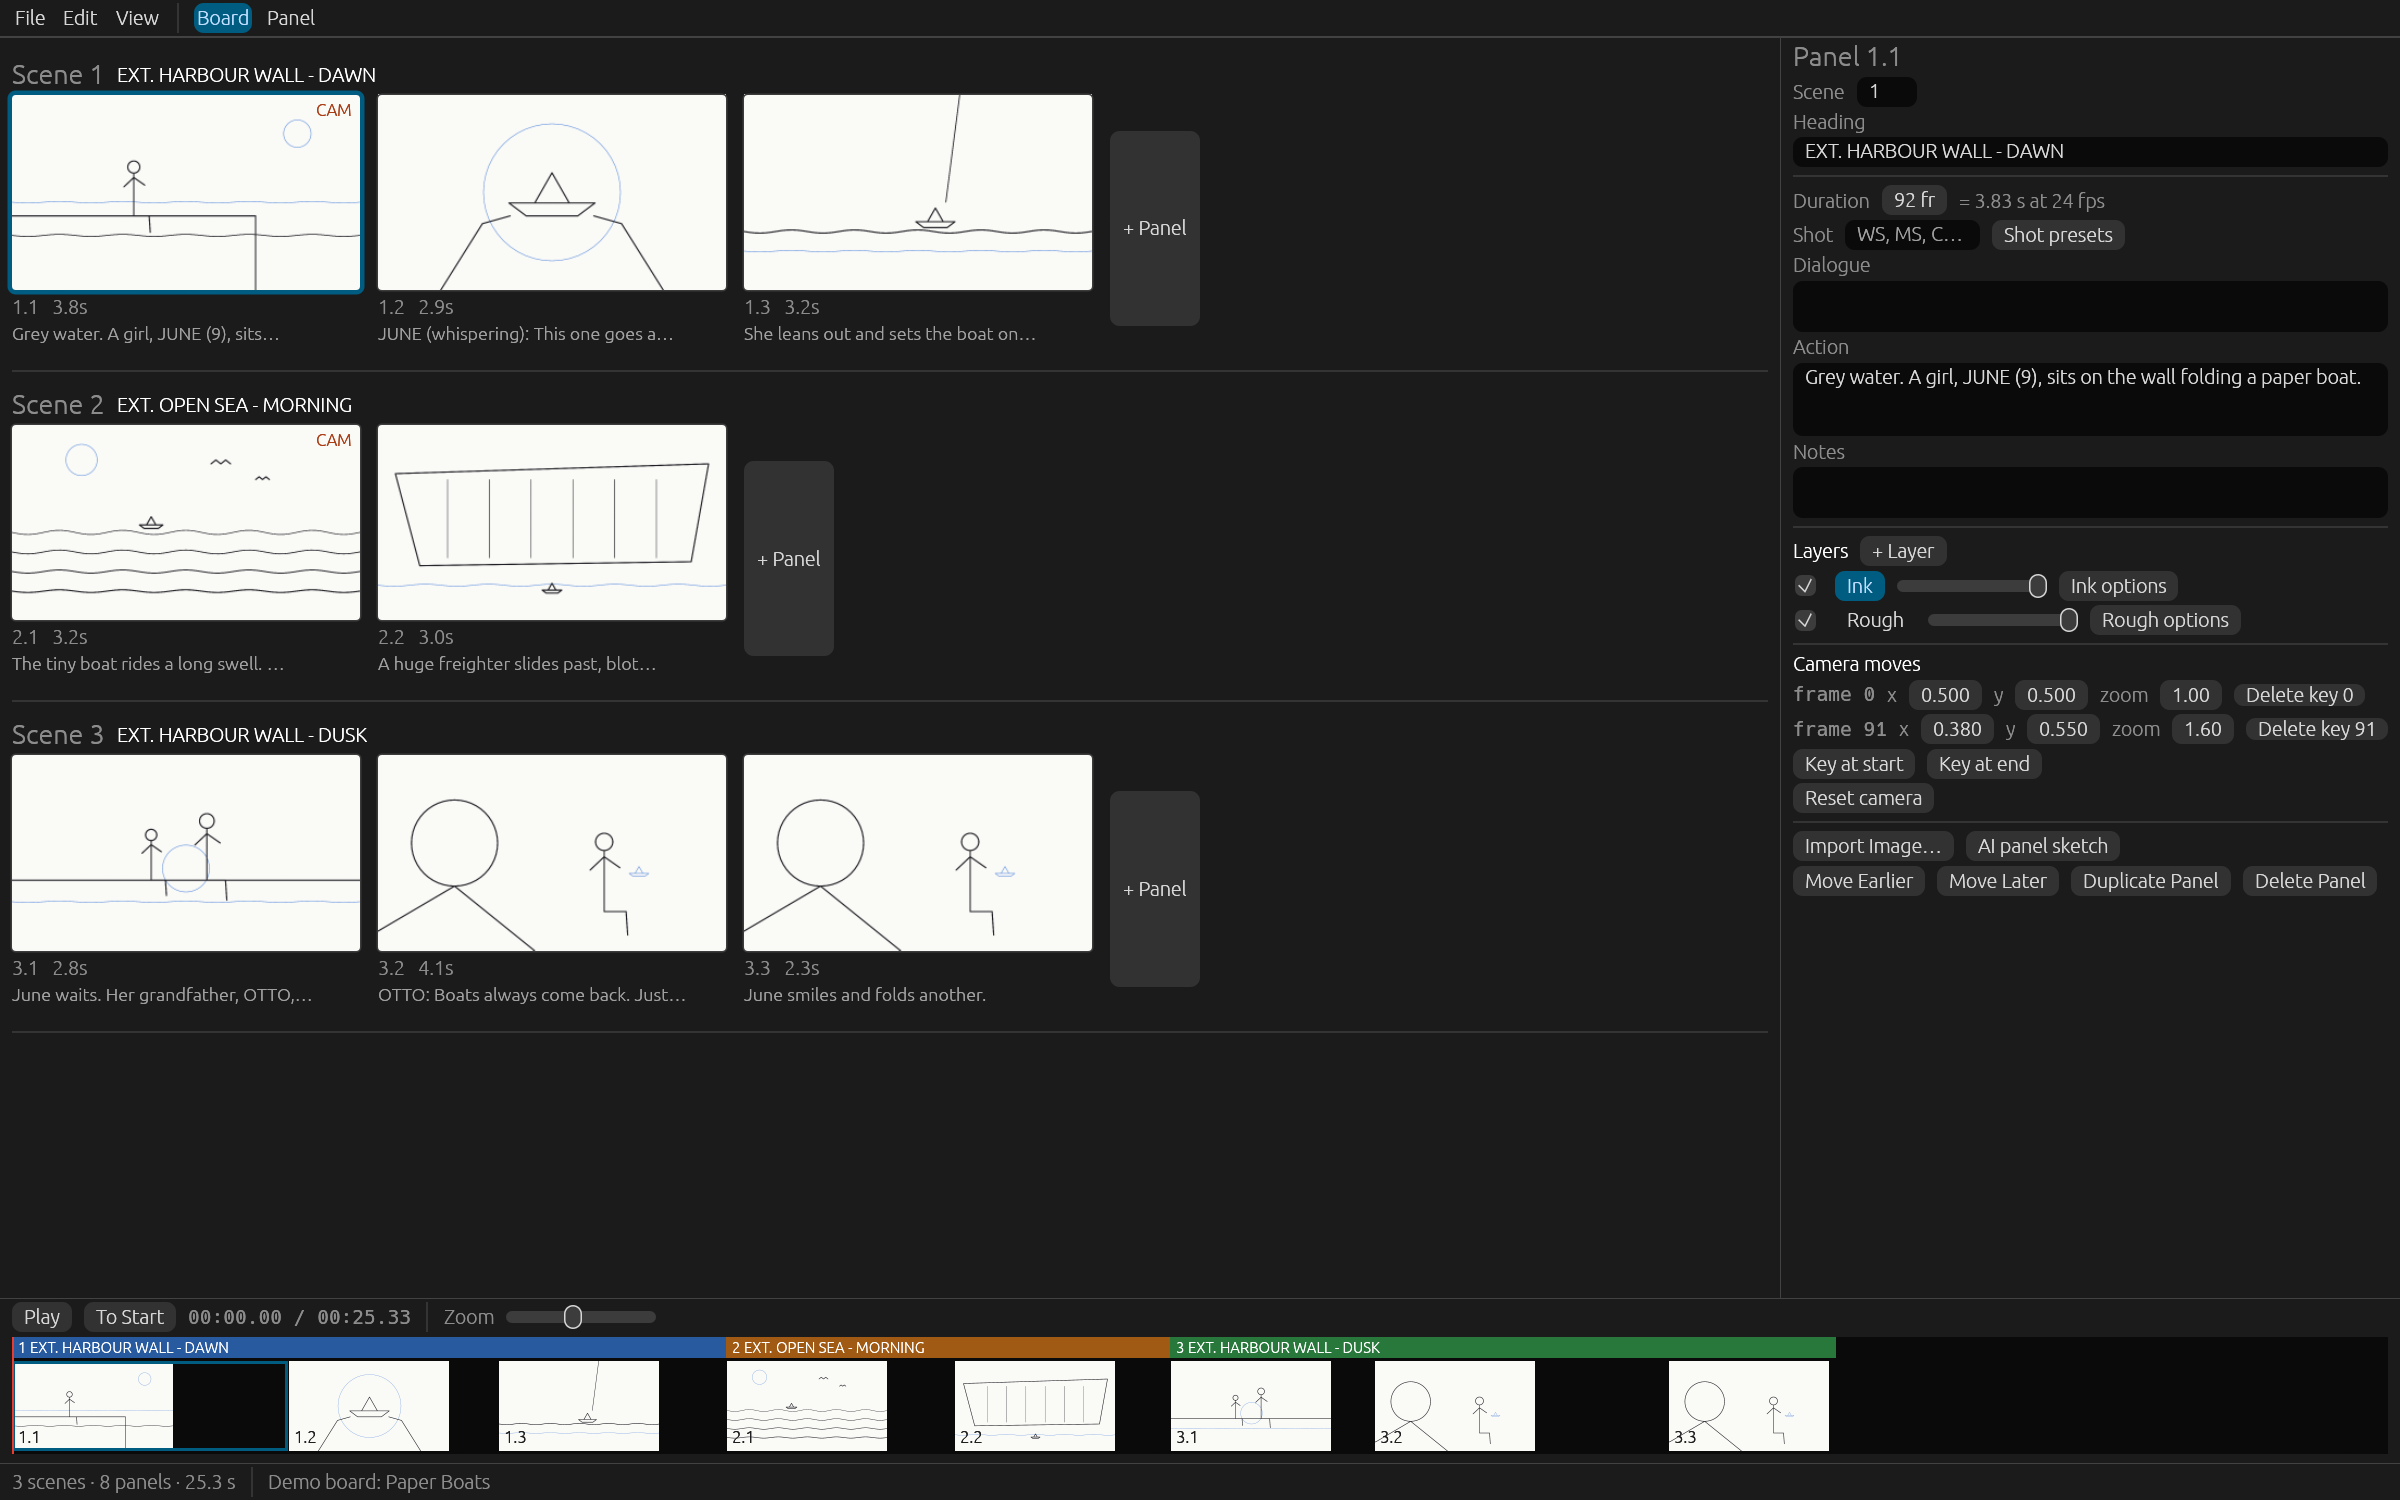
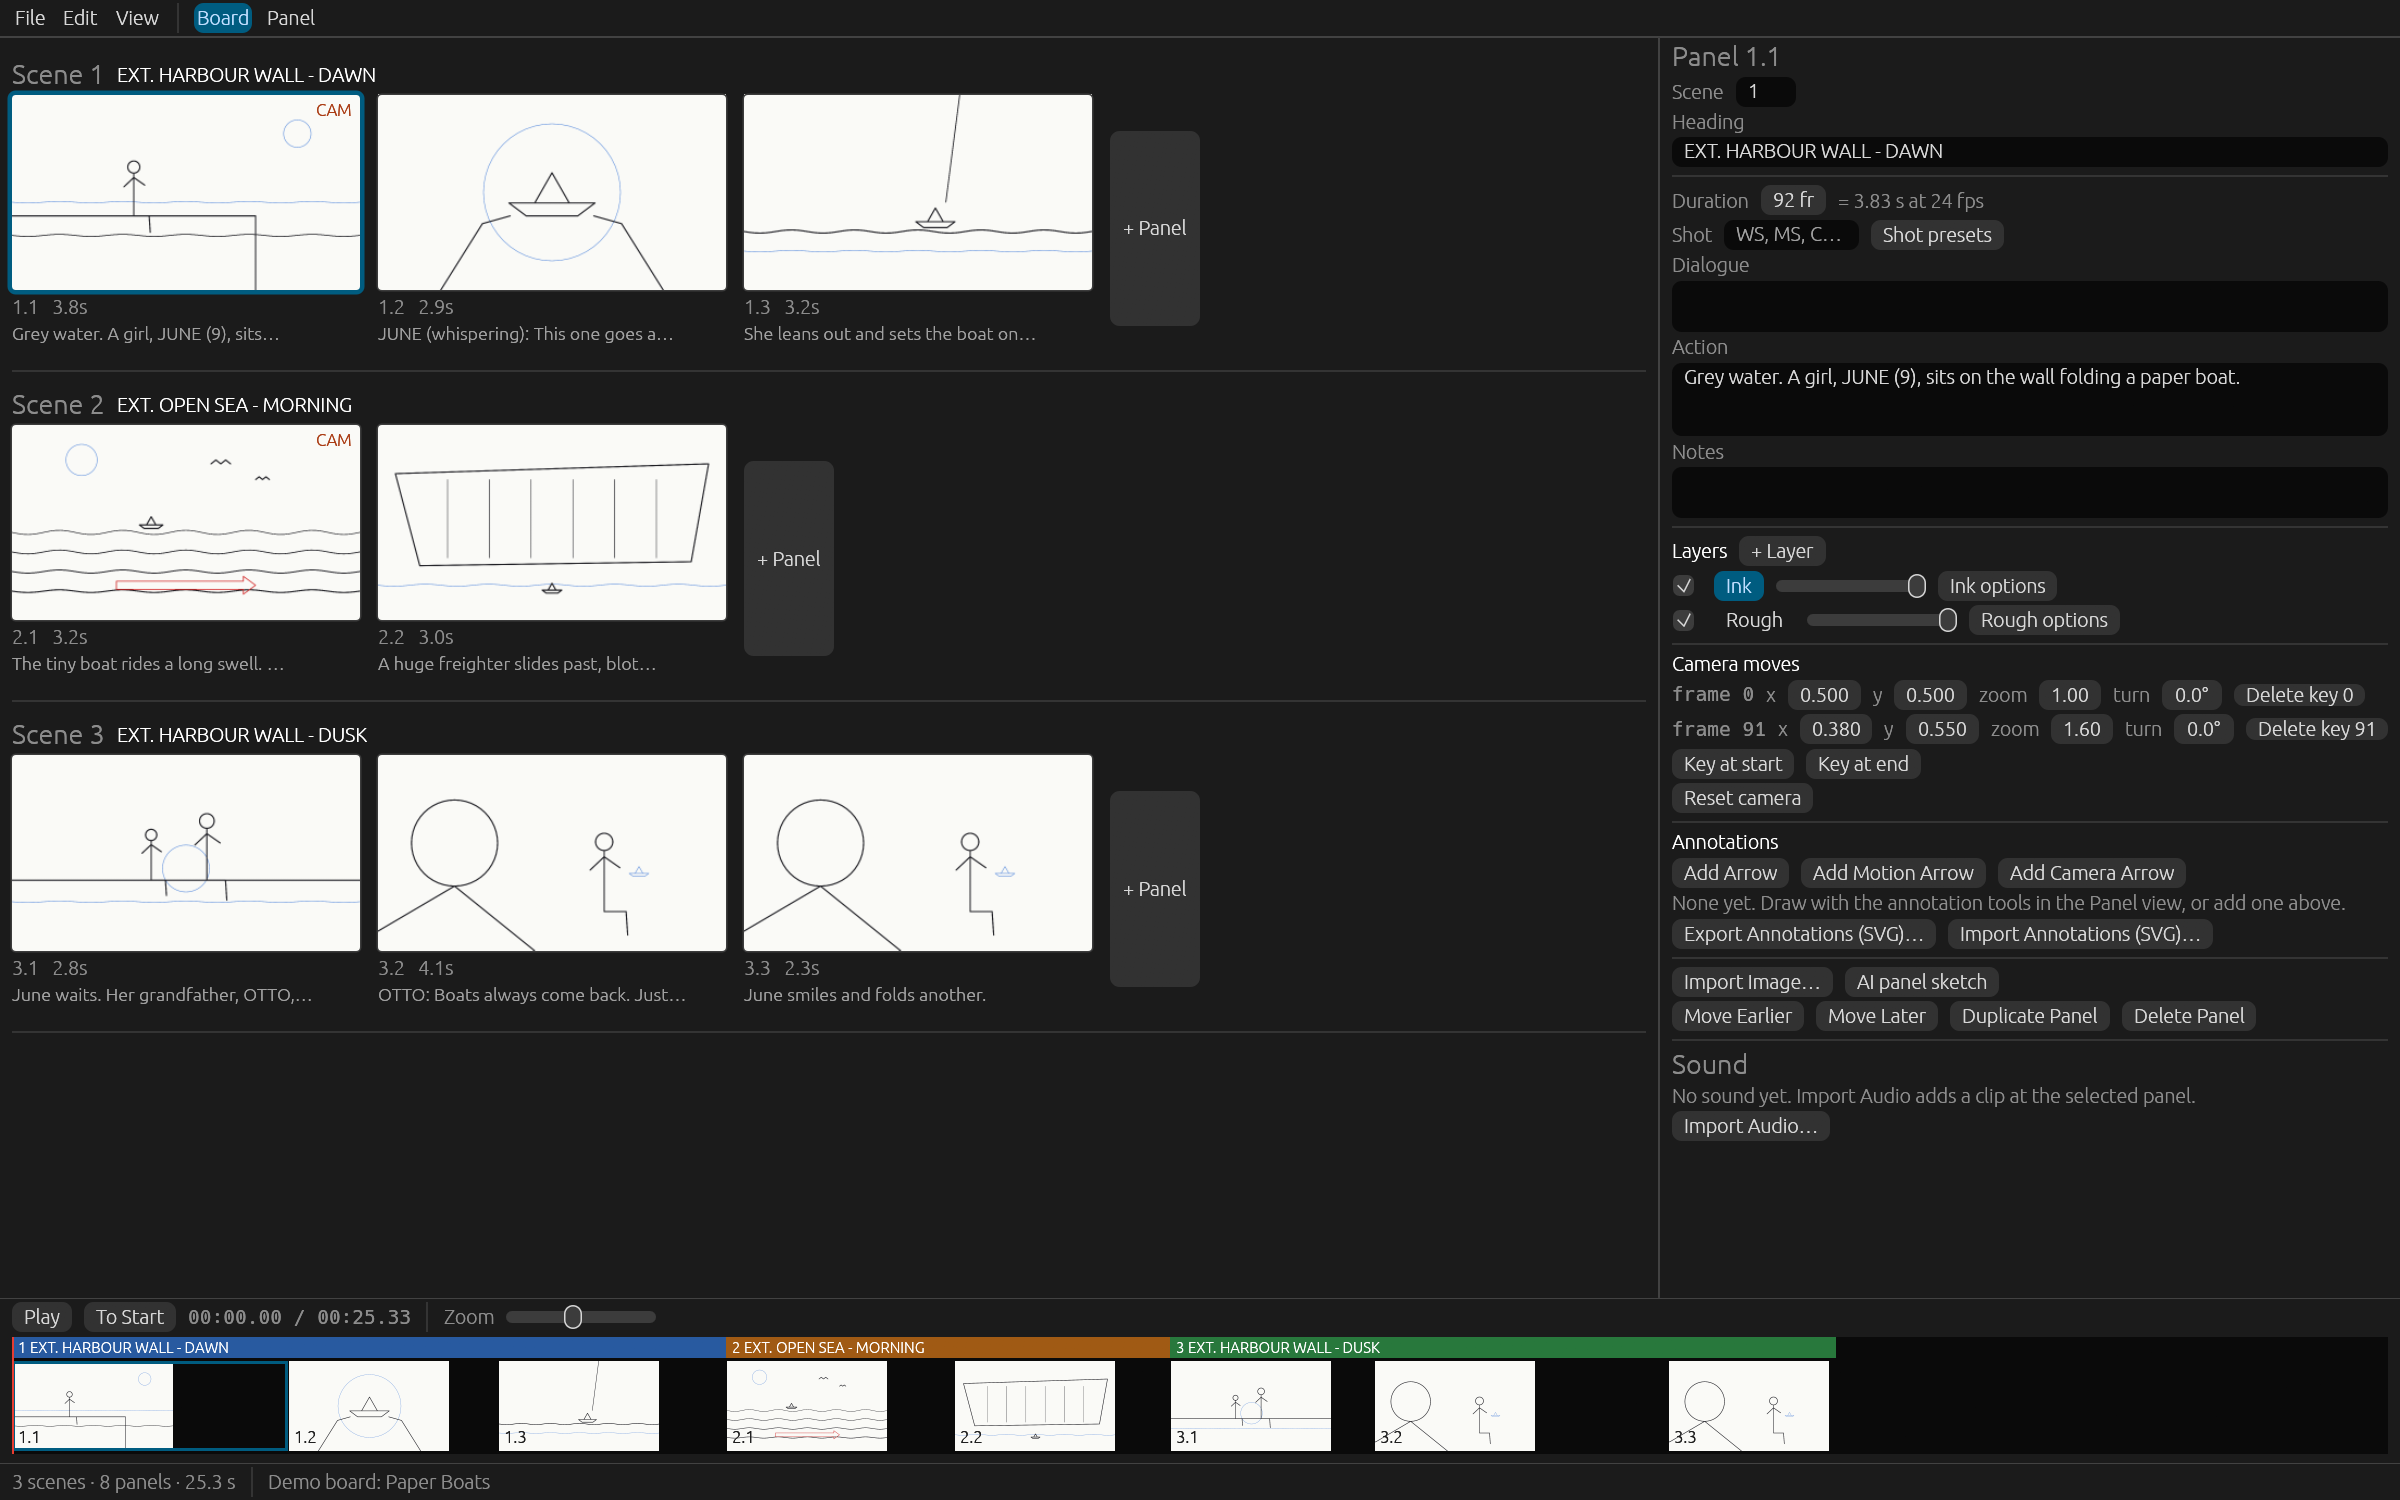
Re-measure parity after the remaining polish items; refresh screenshots
Timing/audio 40%, printing and sharing 60%: weighted total about 41%
(about 19% before the polish pass). Gaps: packaging and icon renders
done, translations wait on craft-i18n catalogs. Progress fragment for
the merged work.

Changed region(s): [[0.6875, 0.368, 0.9688, 0.7667], [0.6875, 0.0307, 0.875, 0.184], [0.6875, 0.2453, 0.9688, 0.3067]]

diff --git a/docs/target-app-parity.md b/docs/target-app-parity.md
@@ -2,7 +2,8 @@
 
 ## Headline
 
-About **37%** of the professional reference (Toon Boom Storyboard Pro), up from about **33%** after
+About **41%** of the professional reference (Toon Boom Storyboard Pro), up from about **37%** before
+the audio, movie and sheet-options work was counted, **33%** after
 the drawing-tools pass, about **28%** after the polish pass and about **19%** before it (all
 2026-11-17; the camera and annotations pass moved the drawing and camera dimensions; the earlier
 "~5%" headline predated the interchange work and was not re-measured then). Against the free tools
@@ -25,10 +26,10 @@ feature set works today, weighted by everyday use. Re-measured 2026-11-17.
 | Board structure and navigation | 15% | 25% | 40% | duplicate panel, Board Settings, keyboard focus and navigation |
 | Drawing tools | 30% | 5% | 35% | canvas zoom/pan/rotate, straight lines, onion skin, edit in any image editor, faster strokes; pressure curve and stabilizer, lasso/rectangle select with transform and cut/copy/paste, bucket fill (drawing-tools pass); editable vector strokes and arrow/motion/camera symbols (annotations) |
 | Camera and staging | 15% | 10% | 30% | typed camera keys; rotation, any number of keys with a key strip, moves exported as Motion keyframes; still no 3D |
-| Timing, audio, playback | 15% | 10% | 20% | 23.976–60 fps, rate change keeping timing; still no audio |
+| Timing, audio, playback | 15% | 10% | 40% | 23.976–60 fps, rate change keeping timing; audio track with waveform, mixing and panel anchors; left: scrubbing, recording, fades, several audio tracks |
 | Script import / export | 15% | 50% | 55% | shot list CSV, shot field |
-| Printing and sharing | 10% | 35% | 45% | shot list; sheet field choice still missing |
-| **Weighted total** | | **≈19%** | **≈37%** | |
+| Printing and sharing | 10% | 35% | 60% | shot list, board-sheet options (fields, header, note lines), MP4 movie with burn-ins; left: sheet templates, MOV/ProRes |
+| **Weighted total** | | **≈19%** | **≈41%** | |
 
 Data safety (autosave, crash recovery, full undo, atomic saves) is not a feature dimension of the
 reference but was its users' most serious complaint category; BoardCraft now covers it.
@@ -40,9 +41,9 @@ reference but was its users' most serious complaint category; BoardCraft now cov
 | Scenes, panels | add, duplicate, delete, reorder, numbers, headings, shot type | acts/sequences, renumbering rules, panel split |
 | Drawing | pressure brush with pressure curve, minimum size and stabilizer, eraser, layers, image import, external editor round trip, zoom/pan/rotate view, straight lines, onion skin, lasso and rectangle select with move/scale/rotate and cut/copy/paste, bucket fill with gap closing; vector annotation layer (freehand vector strokes, arrows, motion arrows, camera arrows; select/move/recolour; SVG in and out) | vector brush with pressure, rulers, textured brushes, feathered selections, free distort |
 | Camera | pan/zoom/rotation keys, any number per panel, eased, key strip (add/select/move/delete by pointer or keyboard), typed values, Motion keyframes in timeline exports | per-key easing curves, 3D layers |
-| Timeline | duration retiming, playhead, scene bands, 23.976–60 fps | audio tracks, transitions |
+| Timeline | duration retiming, playhead, scene bands, 23.976–60 fps, audio track with waveform and anchors, camera-key strip | audio scrubbing and recording, several audio tracks, transitions |
 | Import | Fountain, Final Draft, ScriptCraft scene list; re-import by scene id; conform | PDF scripts, audio |
-| Export | OTIO, EDL, FCP7 XML, FCPXML (+ stills), PDF board sheets, shot list CSV, PNG panels | movie render with burn-ins, sheet templates |
+| Export | OTIO, EDL, FCP7 XML, FCPXML (+ stills, sound, Motion keyframes), MP4 movie with burn-ins, PDF board sheets with options, shot list CSV, PNG panels, SVG annotations | MOV/ProRes, sheet templates |
 | Safety | autosave, crash recovery, undo/redo for every edit, atomic saves | version history |
 
 ## What works today (evidence)

diff --git a/docs/gaps.md b/docs/gaps.md
@@ -19,8 +19,8 @@ working storyboard artist (from [user-research.md](user-research.md) and the
 | 9 | Vector strokes: ~~editable, resolution-free~~ done as annotations; left: pressure-shaped vector brush, vector layers in the layer stack | Drawing | no | 24 | — |
 | 10 | ~~Arrow and motion symbols as an annotation layer~~ done (arrow, motion arrow, camera arrow, SVG in/out) | Drawing | no | 0 | R21 |
 | 11 | ~~MCP server over the commands~~ done (`boardcraft-cli mcp`); a live channel into the running app remains | Agents | no | 8 | [mcp](mcp.md), R24 |
-| 12 | Translations in craft-i18n; translated core error texts | Suite | yes | 8 | [localization-parity](localization-parity.md) |
-| 13 | Final app icon and renders; macOS, Windows, Flatpak packaging | Packaging | yes | 8 | [assets/app-icon/README.md](../assets/app-icon/README.md) |
+| 12 | Translations: catalogs `locales/<locale>/boardcraft.tsv` in the craft-i18n repository (translators; 356 source texts listed in docs/i18n); translated core error texts | Suite | yes | 8 | [localization-parity](localization-parity.md) |
+| 13 | ~~Icon renders; macOS, Windows, Flatpak packaging~~ done (`cargo xtask icons`, packaging/); left: final ArtCraft icon artwork, icon embedded in boardcraft.exe, Windows install-policy check, a CI packaging run | Packaging | yes | 4 | [assets/app-icon/README.md](../assets/app-icon/README.md) |
 | 14 | Large boards: ~~textures for visible panels only, incremental autosave~~ done; left: tiled layers, lazy layer loading | Performance | yes | 10 | [architecture](architecture.md) |
 | 15 | ~~Conform applies order and deletions from the edit~~ done (order, and flags for left-out panels; opt-in) | Interchange | no | 0 | [interop](interop.md) |
 

diff --git a/ROADMAP.md b/ROADMAP.md
@@ -13,7 +13,7 @@
 
 | Measure | Today |
 |---|---|
-| Overall parity with the target (estimate) | ~28% (re-measured 2026-11-17; ~19% before the polish pass) |
+| Overall parity with the target (estimate) | ~41% (re-measured 2026-11-17; ~19% before the polish pass) |
 | Pipeline hand-offs | Fountain / FDX / scene-list JSON in (with re-import), OTIO / EDL / FCP7 XML / FCPXML out and conform back, PNG panels |
 | Tests | run `cargo xtask ci`: core, CLI, app UI (kittest, accessibility checks), xtask |
 

diff --git a/docs/progress.d/0-remaining-polish.md b/docs/progress.d/0-remaining-polish.md
@@ -1,0 +1,1 @@
+| 2026-11-17 | Remaining polish items: audio track and MP4 movie export, drawing tools (pen tuning, selections, fill, view rotation), remappable shortcuts, sheet options, conform order, MCP server, camera rotation and key editor, Motion keyframes, vector annotations, large-board saves, icon renders and macOS/Windows/Flatpak packaging |
